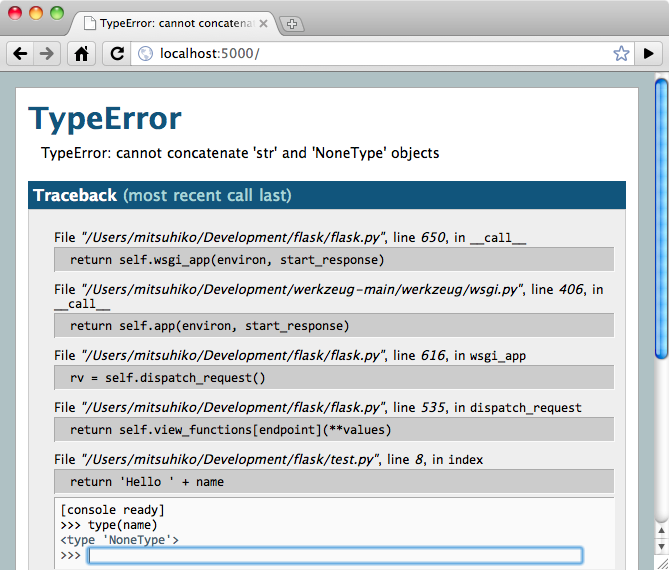
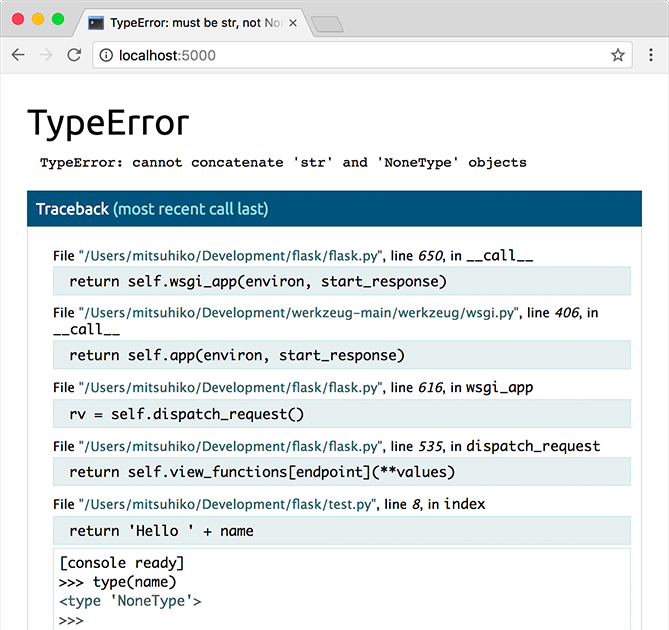
update docs for new theme

diff --git a/docs/conf.py b/docs/conf.py
@@ -1,163 +1,91 @@
-# -*- coding: utf-8 -*-
-from __future__ import print_function
-
-import inspect
-import re
-
-from pallets_sphinx_themes import ProjectLink, get_version
+import packaging.version
+from pallets_sphinx_themes import get_version
+from pallets_sphinx_themes import ProjectLink
 
 # Project --------------------------------------------------------------
 
-project = 'Flask'
-copyright = '2010 Pallets Team'
-author = 'Pallets Team'
-release, version = get_version('Flask')
+project = "Flask"
+copyright = "2010 Pallets"
+author = "Pallets"
+release, version = get_version("Flask")
 
 # General --------------------------------------------------------------
 
-master_doc = 'index'
-
+master_doc = "index"
 extensions = [
-    'sphinx.ext.autodoc',
-    'sphinx.ext.intersphinx',
-    'sphinxcontrib.log_cabinet',
+    "sphinx.ext.autodoc",
+    "sphinx.ext.intersphinx",
+    "sphinxcontrib.log_cabinet",
+    "pallets_sphinx_themes",
+    "sphinx_issues",
 ]
-
 intersphinx_mapping = {
-    'python': ('https://docs.python.org/3/', None),
-    'werkzeug': ('http://werkzeug.pocoo.org/docs/', None),
-    'click': ('http://click.pocoo.org/', None),
-    'jinja': ('http://jinja.pocoo.org/docs/', None),
-    'itsdangerous': ('https://pythonhosted.org/itsdangerous', None),
-    'sqlalchemy': ('https://docs.sqlalchemy.org/en/latest/', None),
-    'wtforms': ('https://wtforms.readthedocs.io/en/latest/', None),
-    'blinker': ('https://pythonhosted.org/blinker/', None),
+    "python": ("https://docs.python.org/3/", None),
+    "werkzeug": ("https://werkzeug.palletsprojects.com/", None),
+    "click": ("https://click.palletsprojects.com/", None),
+    "jinja": ("http://jinja.pocoo.org/docs/", None),
+    "itsdangerous": ("https://itsdangerous.palletsprojects.com/", None),
+    "sqlalchemy": ("https://docs.sqlalchemy.org/", None),
+    "wtforms": ("https://wtforms.readthedocs.io/en/stable/", None),
+    "blinker": ("https://pythonhosted.org/blinker/", None),
 }
+issues_github_path = "pallets/flask"
 
 # HTML -----------------------------------------------------------------
 
-html_theme = 'flask'
+html_theme = "flask"
+html_theme_options = {"index_sidebar_logo": False}
 html_context = {
-    'project_links': [
-        ProjectLink('Donate to Pallets', 'https://psfmember.org/civicrm/contribute/transact?reset=1&id=20'),
-        ProjectLink('Flask Website', 'https://palletsprojects.com/p/flask/'),
-        ProjectLink('PyPI releases', 'https://pypi.org/project/Flask/'),
-        ProjectLink('Source Code', 'https://github.com/pallets/flask/'),
-        ProjectLink(
-            'Issue Tracker', 'https://github.com/pallets/flask/issues/'),
-    ],
-    'canonical_url': 'http://flask.pocoo.org/docs/{}/'.format(version),
-    'carbon_ads_args': 'zoneid=1673&serve=C6AILKT&placement=pocooorg',
-}
-html_sidebars = {
-    'index': [
-        'project.html',
-        'versions.html',
-        'carbon_ads.html',
-        'searchbox.html',
-    ],
-    '**': [
-        'localtoc.html',
-        'relations.html',
-        'versions.html',
-        'carbon_ads.html',
-        'searchbox.html',
+    "project_links": [
+        ProjectLink("Donate to Pallets", "https://palletsprojects.com/donate"),
+        ProjectLink("Flask Website", "https://palletsprojects.com/p/flask/"),
+        ProjectLink("PyPI releases", "https://pypi.org/project/Flask/"),
+        ProjectLink("Source Code", "https://github.com/pallets/flask/"),
+        ProjectLink("Issue Tracker", "https://github.com/pallets/flask/issues/"),
     ]
 }
-html_static_path = ['_static']
-html_favicon = '_static/flask-favicon.ico'
-html_logo = '_static/flask.png'
-html_additional_pages = {
-    '404': '404.html',
+html_sidebars = {
+    "index": ["project.html", "localtoc.html", "searchbox.html"],
+    "**": ["localtoc.html", "relations.html", "searchbox.html"],
 }
+singlehtml_sidebars = {"index": ["project.html", "localtoc.html"]}
+html_static_path = ["_static"]
+html_favicon = "_static/flask-icon.png"
+html_logo = "_static/flask-icon.png"
+html_title = "Flask Documentation ({})".format(version)
 html_show_sourcelink = False
 
 # LaTeX ----------------------------------------------------------------
 
 latex_documents = [
-    (master_doc, 'Flask.tex', 'Flask Documentation', 'Pallets Team', 'manual'),
+    (master_doc, "Flask-{}.tex".format(version), html_title, author, "manual")
 ]
-latex_use_modindex = False
-latex_elements = {
-    'papersize': 'a4paper',
-    'pointsize': '12pt',
-    'fontpkg': r'\usepackage{mathpazo}',
-    'preamble': r'\usepackage{flaskstyle}',
-}
-latex_use_parts = True
-latex_additional_files = ['flaskstyle.sty', 'logo.pdf']
-
-# linkcheck ------------------------------------------------------------
-
-linkcheck_anchors = False
 
 # Local Extensions -----------------------------------------------------
 
-def unwrap_decorators():
-    import sphinx.util.inspect as inspect
-    import functools
 
-    old_getargspec = inspect.getargspec
-    def getargspec(x):
-        return old_getargspec(getattr(x, '_original_function', x))
-    inspect.getargspec = getargspec
-
-    old_update_wrapper = functools.update_wrapper
-    def update_wrapper(wrapper, wrapped, *a, **kw):
-        rv = old_update_wrapper(wrapper, wrapped, *a, **kw)
-        rv._original_function = wrapped
-        return rv
-    functools.update_wrapper = update_wrapper
-
-
-unwrap_decorators()
-del unwrap_decorators
-
-
-_internal_mark_re = re.compile(r'^\s*:internal:\s*$(?m)', re.M)
-
-
-def skip_internal(app, what, name, obj, skip, options):
-    docstring = inspect.getdoc(obj) or ''
-
-    if skip or _internal_mark_re.search(docstring) is not None:
-        return True
-
-
-def cut_module_meta(app, what, name, obj, options, lines):
-    """Remove metadata from autodoc output."""
-    if what != 'module':
-        return
-
-    lines[:] = [
-        line for line in lines
-        if not line.startswith((':copyright:', ':license:'))
-    ]
-
-
-def github_link(
-    name, rawtext, text, lineno, inliner, options=None, content=None
-):
+def github_link(name, rawtext, text, lineno, inliner, options=None, content=None):
     app = inliner.document.settings.env.app
     release = app.config.release
-    base_url = 'https://github.com/pallets/flask/tree/'
+    base_url = "https://github.com/pallets/flask/tree/"
 
-    if text.endswith('>'):
-        words, text = text[:-1].rsplit('<', 1)
+    if text.endswith(">"):
+        words, text = text[:-1].rsplit("<", 1)
         words = words.strip()
     else:
         words = None
 
-    if release.endswith('dev'):
-        url = '{0}master/{1}'.format(base_url, text)
+    if packaging.version.parse(release).is_devrelease:
+        url = "{0}master/{1}".format(base_url, text)
     else:
-        url = '{0}{1}/{2}'.format(base_url, release, text)
+        url = "{0}{1}/{2}".format(base_url, release, text)
 
     if words is None:
         words = url
 
     from docutils.nodes import reference
     from docutils.parsers.rst.roles import set_classes
+
     options = options or {}
     set_classes(options)
     node = reference(rawtext, words, refuri=url, **options)
@@ -165,6 +93,4 @@ def github_link(
 
 
 def setup(app):
-    app.connect('autodoc-skip-member', skip_internal)
-    app.connect('autodoc-process-docstring', cut_module_meta)
-    app.add_role('gh', github_link)
+    app.add_role("gh", github_link)

diff --git a/docs/index.rst b/docs/index.rst
@@ -1,12 +1,12 @@
-:orphan:
+.. rst-class:: hide-header
 
 Welcome to Flask
 ================
 
-.. image:: _static/logo-full.png
-   :alt: Flask: web development, one drop at a time
-   :class: floatingflask
-   :align: right
+.. image:: _static/flask-logo.png
+    :alt: Flask: web development, one drop at a time
+    :align: center
+    :target: https://palletsprojects.com/p/flask/
 
 Welcome to Flask's documentation.  This documentation is divided into
 different parts.  I recommend that you get started with
